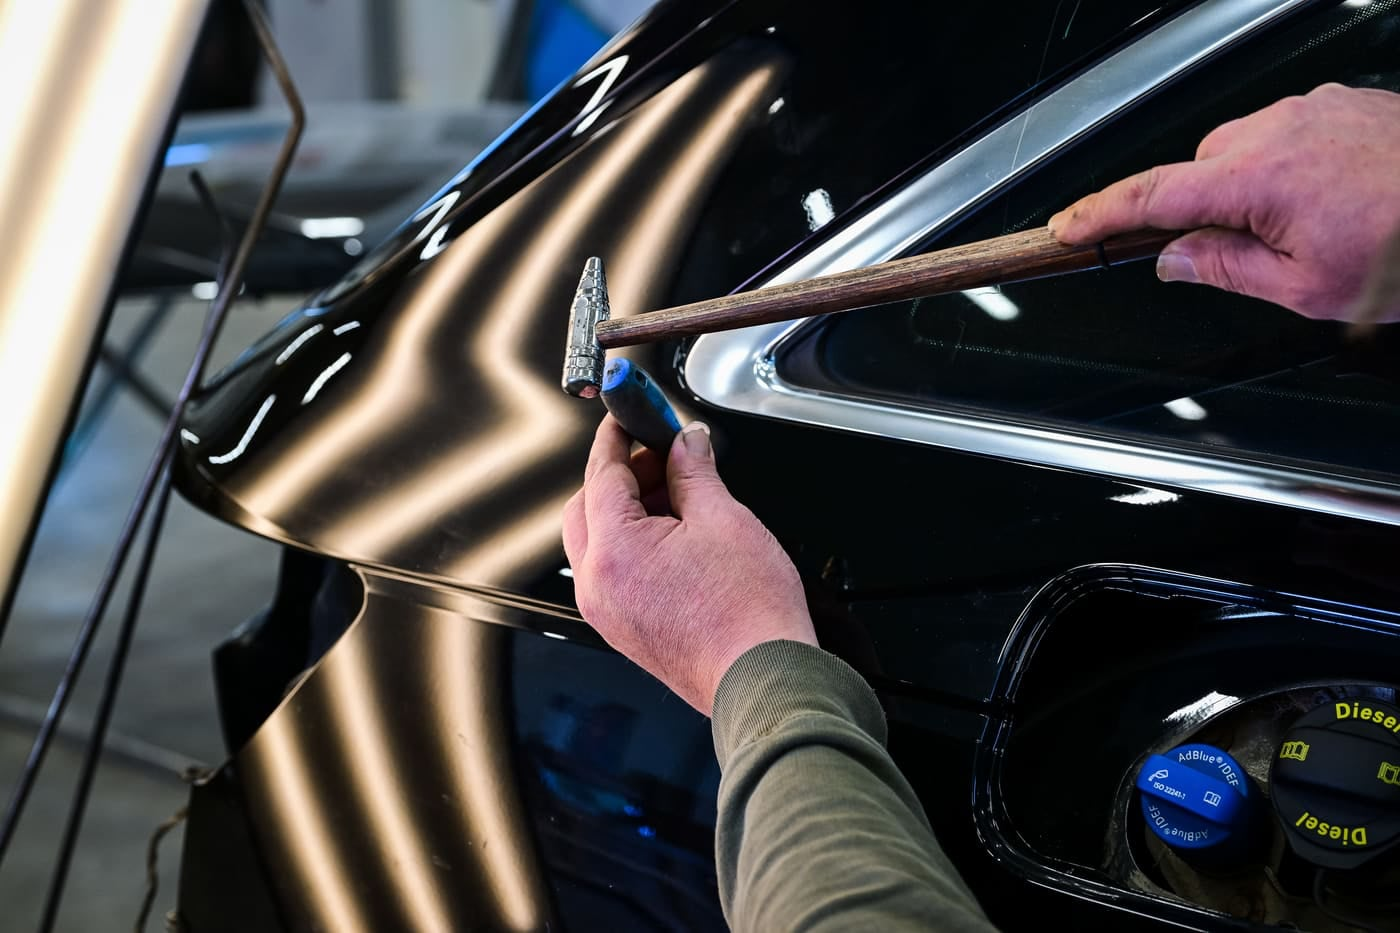
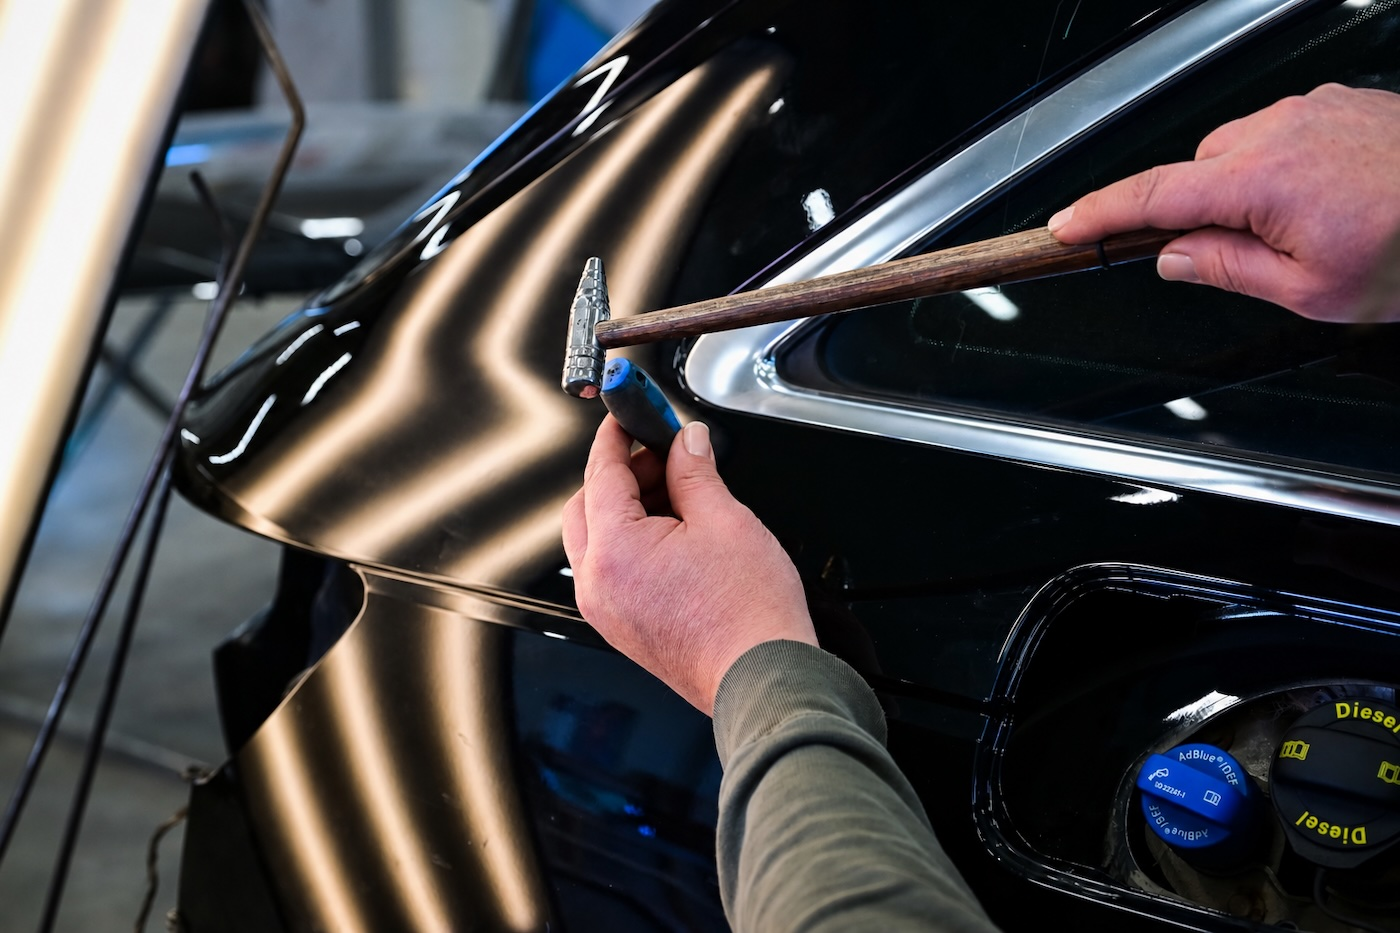
55

diff --git a/index.html b/index.html
@@ -385,7 +385,7 @@
                 </a>
               </li>
             </ul>
-            <p class="partners__note">Klikni na sliko za oceno škode</p>
+            <p class="partners__note">Kliknite na logotip zavarovalnice za dostop do spletne strani za prijavo škode.</p>
           </div>
         </div>
       </div>
